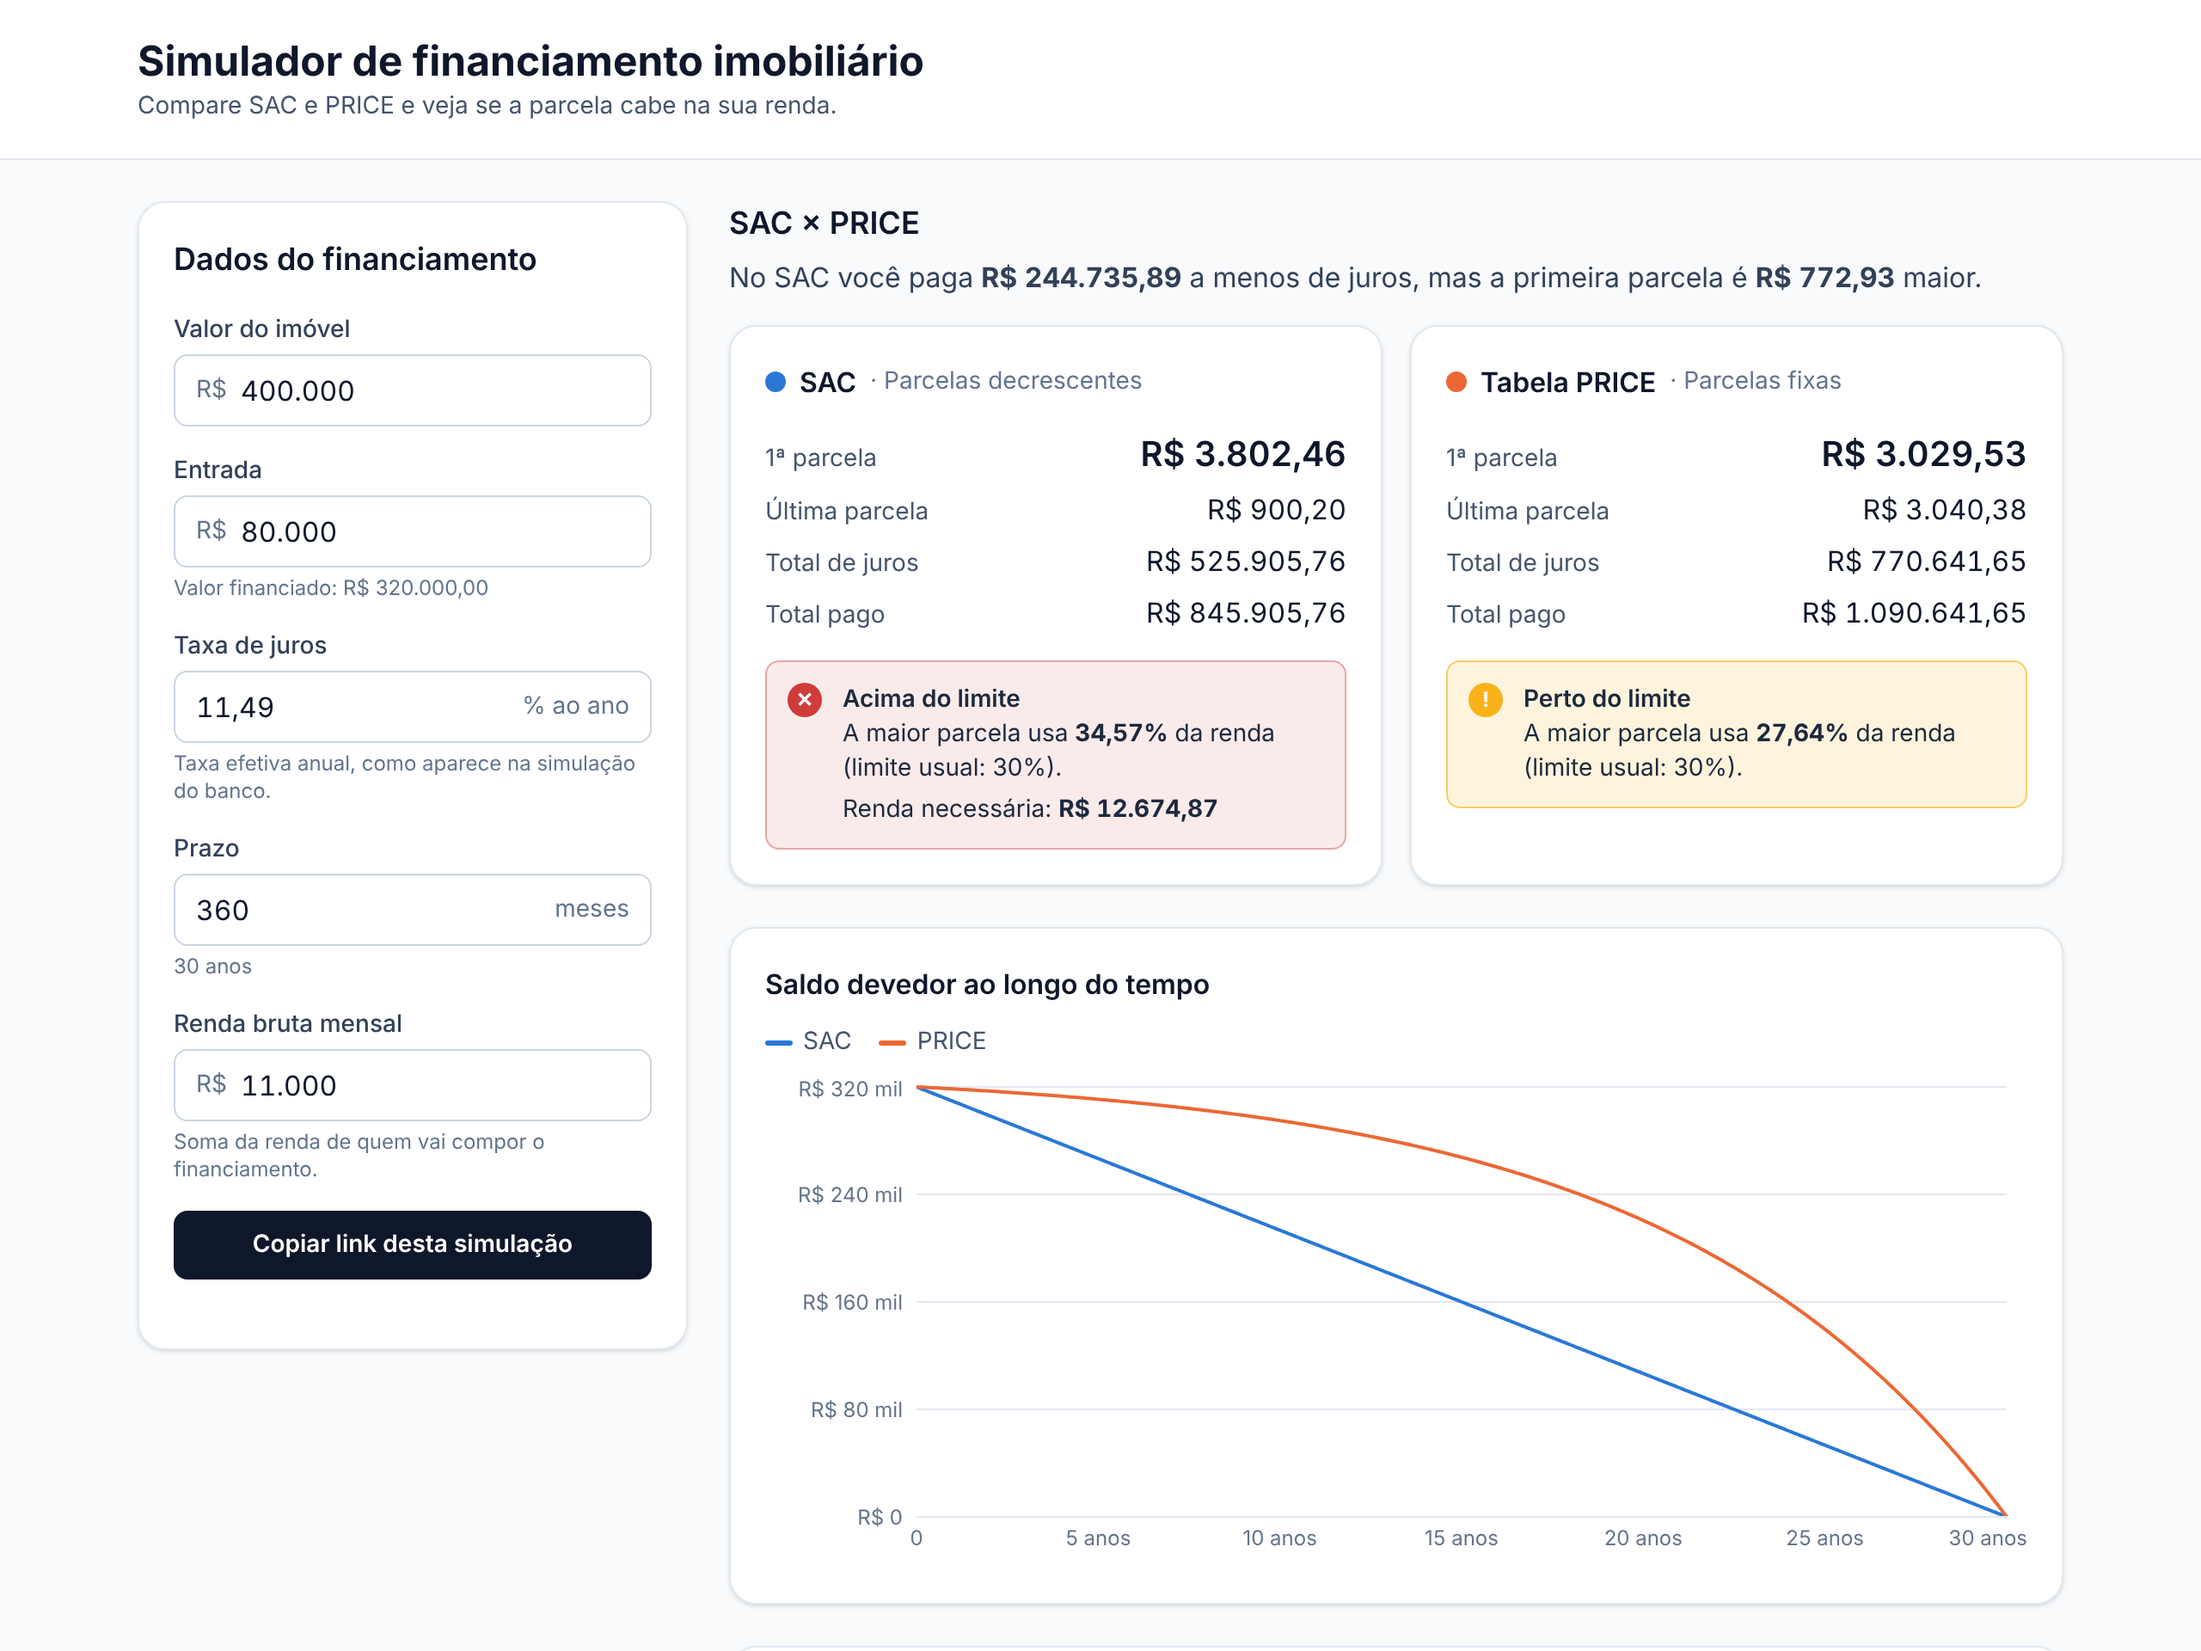
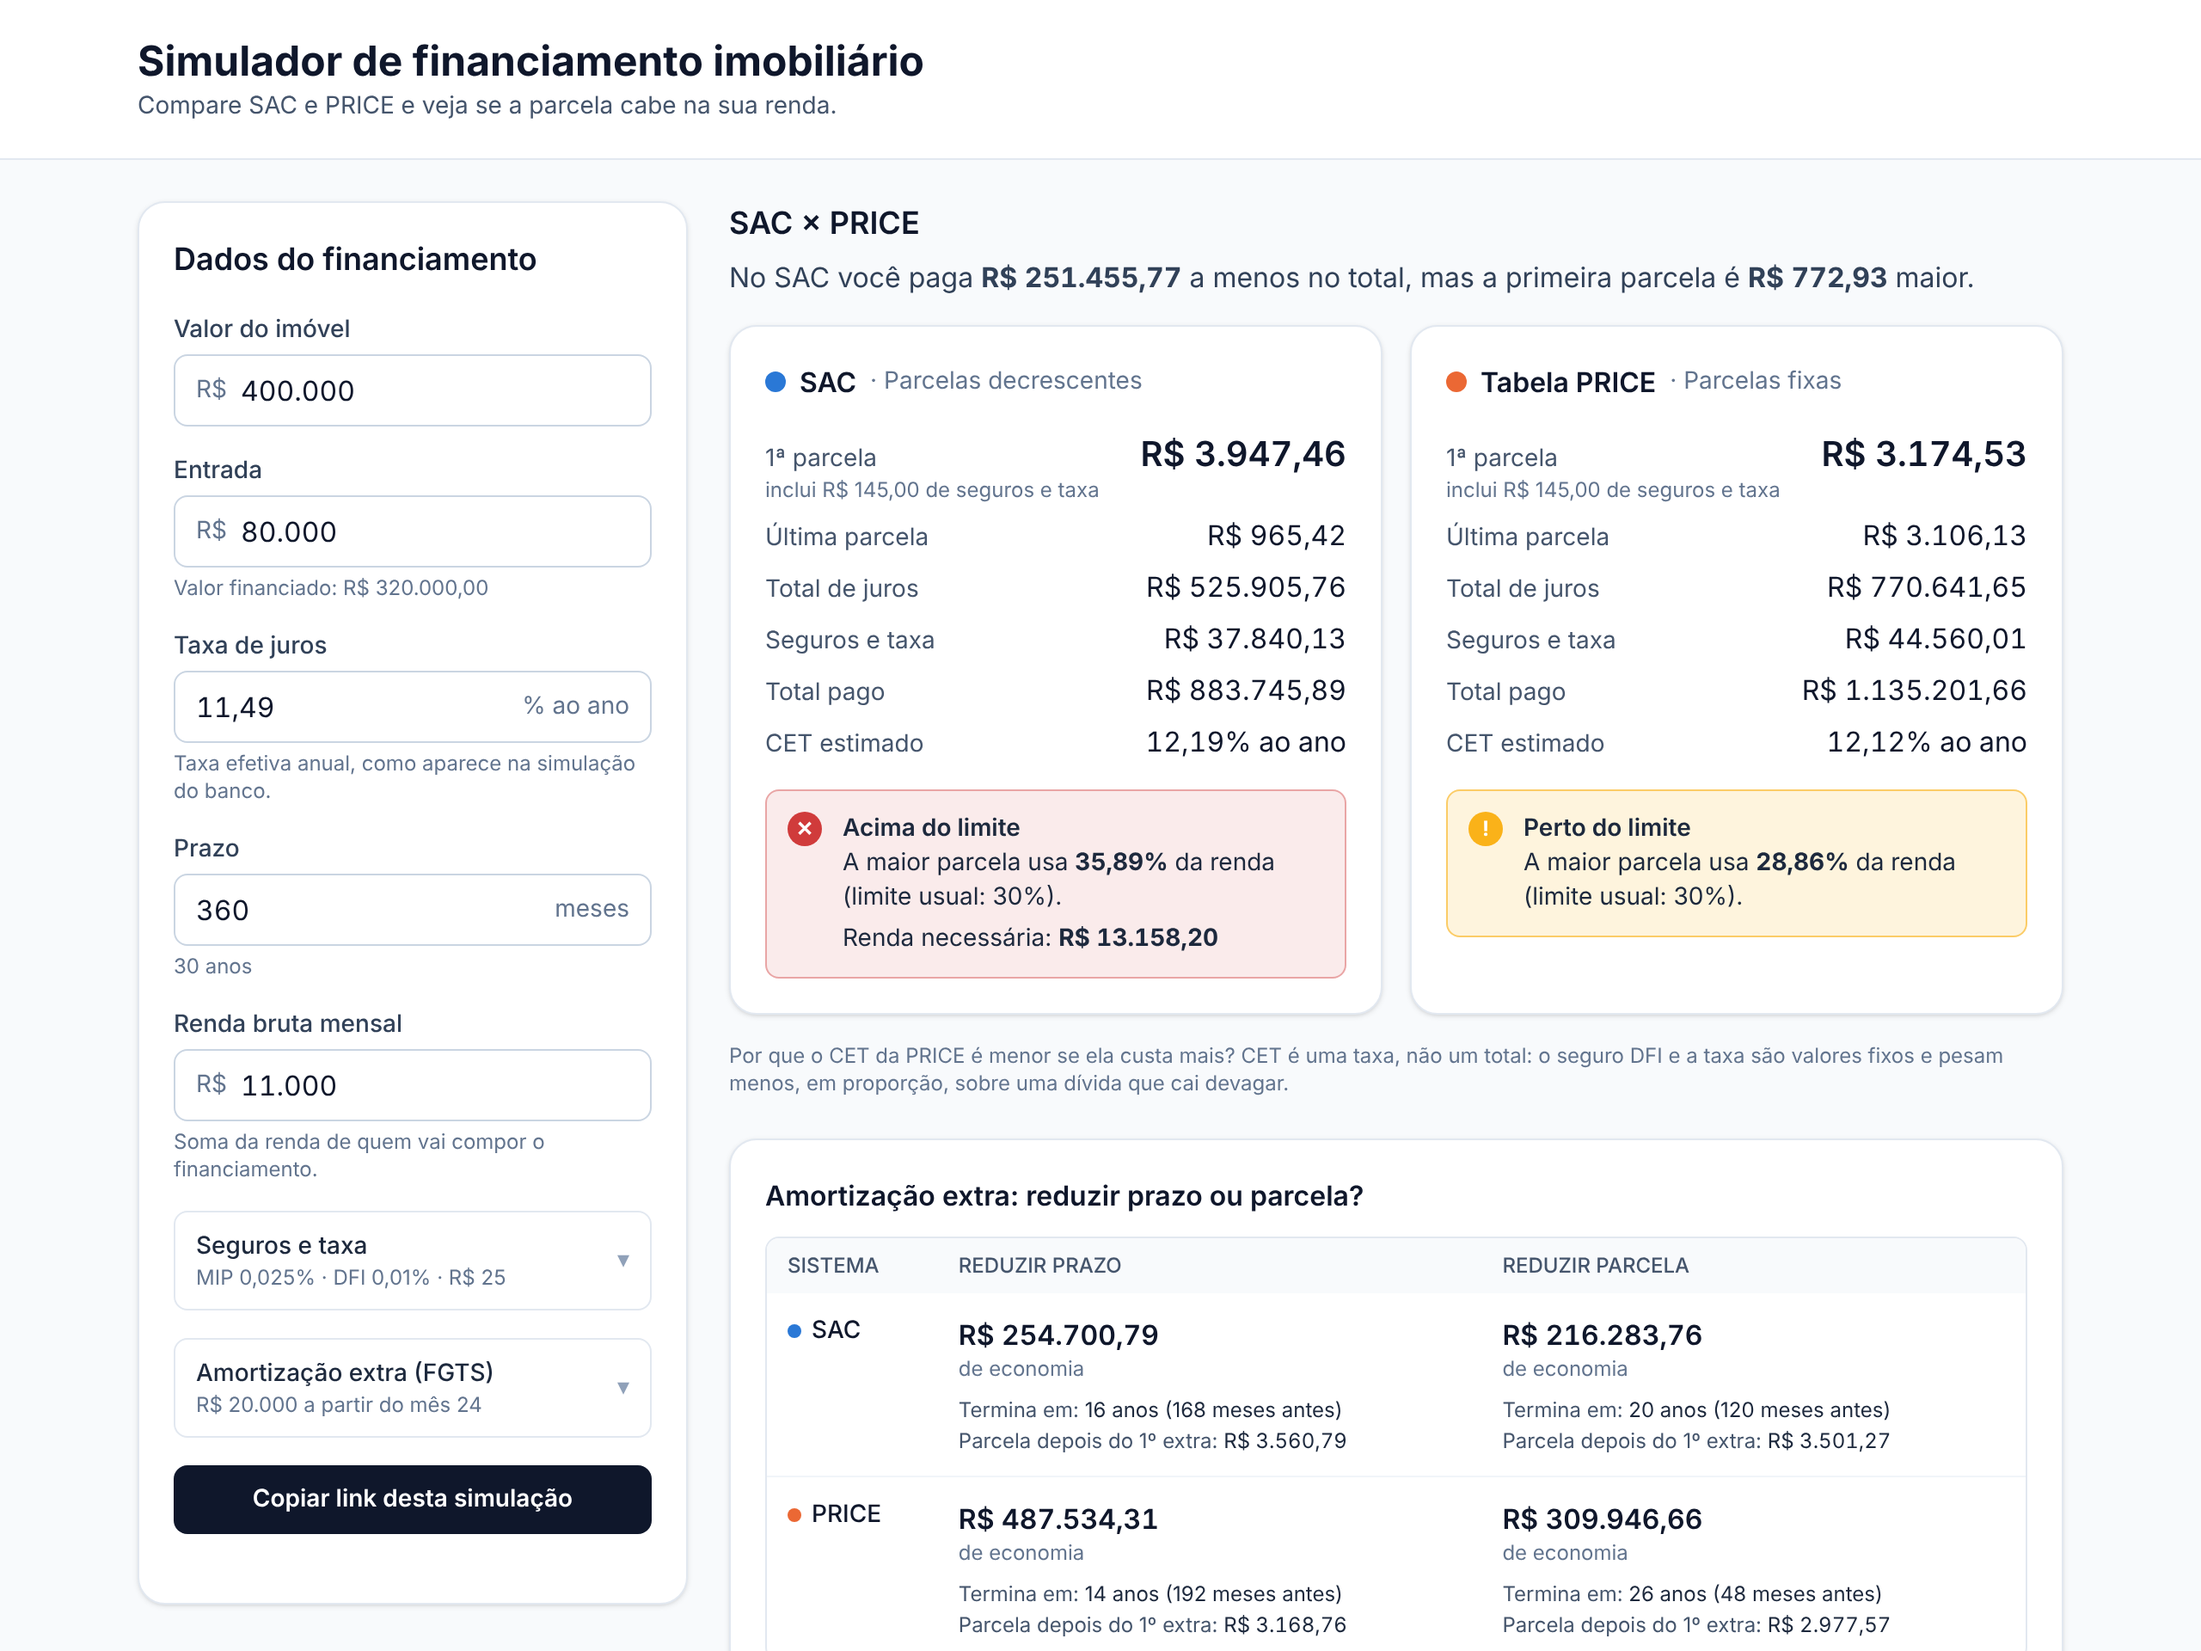
docs: README e decisões da versão 2 (seguros, CET, FGTS e E2E)
Claude-Session: https://claude.ai/code/session_01U7Cfvx8JJkY3kDSMCDJYpk

diff --git a/docs/DECISOES.md b/docs/DECISOES.md
@@ -333,3 +333,116 @@ um substituto vazio.
   prévia com os números do link exigiria gerar a imagem no servidor (ex.:
   função serverless com `@vercel/og`), já que os robôs não executam
   JavaScript. Fica como ideia de evolução.
+
+---
+
+# Versão 2: seguros, CET, amortização extra e E2E
+
+## 19. Um motor só para SAC e PRICE (refatoração com rede de segurança)
+
+Para suportar pagamentos extras, SAC e PRICE precisariam da mesma lógica
+nova duas vezes. Em vez disso, criei `gerarTabela(sistema, params, opções)`
+em `motor.ts`: os dois sistemas diferem só na regra da amortização regular
+(fixa no SAC; prestação menos juros na PRICE). Juros, arredondamento,
+última parcela e extras ficam num lugar só.
+
+A refatoração foi feita **com os testes antigos como rede de segurança**:
+`calcularSAC` e `calcularPRICE` viraram três linhas que chamam o motor, e os
+144 testes existentes passaram sem nenhuma alteração. Um teste novo afirma
+que, sem extras, o motor é idêntico às versões anteriores.
+
+## 20. Encargos separados da amortização
+
+Seguros e taxa **não mudam a dívida**, só o valor pago. Por isso
+`aplicarEncargos()` recebe uma tabela já pronta e acrescenta MIP, DFI, taxa
+e total em cada linha. A mesma função serve para SAC, PRICE e os cenários
+com extra, sem repetir código.
+
+- **MIP** incide sobre o saldo devedor do mês (antes do pagamento): cai com a dívida.
+- **DFI** incide sobre o valor do imóvel: fica constante.
+- **Taxa de administração**: valor fixo em reais.
+
+Os valores padrão (MIP 0,025% a.m., DFI 0,01% a.m., R$ 25) são **exemplos**.
+O MIP depende da idade e cada banco tem sua tabela, então o formulário avisa
+para usar os números do contrato. O comprometimento de renda passou a usar a
+parcela **total**, que é o que o banco considera.
+
+## 21. CET por taxa interna de retorno
+
+CET é a taxa que iguala o valor liberado ao valor presente de tudo que se
+paga. Não tem fórmula fechada, então é resolvido numericamente.
+
+- **Bissecção, não Newton-Raphson.** Newton converge mais rápido, mas pode
+  divergir com um chute ruim. Aqui a função é monótona (mais taxa, menor
+  valor presente), então a bissecção sempre converge; 100 iterações levam
+  menos de 1 ms.
+- **Conferido com outro método:** a implementação independente em Python
+  usou o método da secante e chegou aos mesmos valores (12,19% SAC, 12,12% PRICE).
+- **Teste de sanidade:** sem seguros e taxa, o CET tem de dar a própria taxa
+  de juros (11,49%), e dá, a menos do arredondamento.
+- **Simplificação assumida:** o CET oficial (Resolução CMN 3.517) inclui
+  custos de contratação (avaliação, registro, tarifas), que o simulador não pede.
+
+**Descoberta que virou explicação na tela:** com os valores padrão, o CET da
+PRICE (12,12%) sai *menor* que o do SAC (12,19%), mesmo a PRICE custando
+R$ 251 mil a mais. Não é bug: DFI e taxa são valores fixos, e na PRICE a
+dívida fica alta por mais tempo, então esses custos pesam menos *em
+proporção*. CET é taxa, não total. A interface mostra essa explicação
+quando o caso acontece, para ninguém escolher a PRICE achando que é mais barata.
+
+## 22. Amortização extra: prazo × parcela
+
+O usuário informa valor, mês e repetição (uma vez, todo ano ou a cada 2 anos,
+que é o intervalo mínimo do FGTS). O simulador calcula os **dois modos nos
+dois sistemas** e mostra uma tabela 2×2 com economia, prazo final e parcela
+depois do extra.
+
+- **Reduzir prazo:** mantém a regra da parcela; a dívida acaba antes.
+- **Reduzir parcela:** depois de cada extra, recalcula a parcela para o
+  prazo restante (SAC: saldo ÷ meses restantes; PRICE: nova anuidade).
+- O extra nunca passa do saldo; um extra gigante simplesmente quita o contrato.
+
+**Teste que estava errado, não o código:** eu afirmei que no modo "reduzir
+parcela" o prazo nunca muda. O teste falhou: com R$ 20 mil a cada 2 anos, os
+próprios extras quitam a dívida antes (em 240 meses no SAC). Corrigi a
+afirmação do teste, que agora diz o que de fato vale, e adicionei outro
+mostrando que, com **um** extra só, o prazo se mantém.
+
+No celular, a tabela 2×2 vira um cartão por sistema, para não precisar de
+rolagem lateral.
+
+## 23. Formulário com campos opcionais
+
+`EntradaSimulacao` continua **plana** (sem objetos aninhados): cada campo do
+formulário é uma chave, e os erros usam as mesmas chaves. A conversão texto
+→ número virou uma **tabela de configuração** (unidade, obrigatório, valor
+padrão por campo) em vez de um `if` por campo: campo novo = uma linha.
+
+Seguros e extra ficam em seções recolhíveis com `<details>` nativo
+(acessível sem JavaScript). Campos opcionais vazios valem zero. No link, os
+campos de extra só entram quando há valor extra, para o link padrão
+continuar curto.
+
+## 24. Testes de ponta a ponta (Playwright)
+
+Vitest garante os números; Playwright garante que **o site funciona num
+navegador de verdade**: build de produção, carregamento sob demanda dos
+gráficos, URL, área de transferência, tags de prévia.
+
+- **8 cenários × 2 dispositivos** (desktop e celular Pixel 7, ambos Chromium,
+  para o CI instalar um navegador só).
+- **Dois jeitos de rodar:** sem `BASE_URL`, o Playwright sobe o build local
+  (`vite preview`), que é o que o CI faz a cada push; com `BASE_URL`, testa
+  um site já publicado.
+- **Após cada deploy de produção:** o workflow `e2e-producao.yml` escuta o
+  evento `deployment_status` que a Vercel publica no GitHub e roda os testes
+  no domínio de produção. Usa o domínio público, não a URL única do deploy,
+  que fica protegida por login na Vercel.
+
+**O primeiro E2E já pegou um bug real.** A seção "Amortização extra" abria
+quando havia erro (`open={temErro}`), e quando a pessoa corrigia o erro o
+React tirava o atributo `open`, fechando a seção no meio do preenchimento. O
+teste no jsdom não pegou porque lá nada fica invisível: o Playwright tentou
+escolher uma opção num `<select>` que tinha sumido da tela. A correção (abrir
+via `ref` quando surge erro, nunca fechar sozinho) veio com um teste de
+regressão no Vitest e está num commit próprio (`fix:`).

diff --git a/README.md b/README.md
@@ -22,10 +22,13 @@ Internet: a ideia é responder com números a pergunta que todo cliente faz —
 - [x] Gráficos de saldo devedor e composição da parcela (Recharts)
 - [x] Link compartilhável: os valores ficam na URL
 - [x] Deploy na Vercel, com prévia do link no WhatsApp/LinkedIn (Open Graph)
+- [x] Seguros MIP e DFI, taxa de administração e CET estimado
+- [x] Amortização extra (FGTS): reduzir prazo × reduzir parcela, única ou recorrente
+- [x] Testes de ponta a ponta com Playwright, no CI e após cada deploy
 
 ## Stack
 
-React · TypeScript · Vite · Tailwind CSS · Recharts · Vitest
+React · TypeScript · Vite · Tailwind CSS · Recharts · Vitest · Playwright
 
 ## Como rodar
 
@@ -35,7 +38,11 @@ npm run dev        # servidor de desenvolvimento
 npm test           # testes em modo watch
 npm run coverage   # testes + relatório de cobertura (mínimo 100% em src/lib)
 npm run build      # typecheck + build de produção
+npm run e2e        # testes de ponta a ponta (sobe o build local)
+npm run e2e:producao  # os mesmos testes contra o site publicado
 ```
+
+Na primeira vez, instale o navegador do Playwright: `npx playwright install chromium`.
 
 ## Estrutura
 
@@ -45,7 +52,10 @@ src/
 │   ├── financiamento/       # regras de negócio
 │   │   ├── dinheiro.ts      # reais ↔ centavos, formatação BRL
 │   │   ├── taxas.ts         # conversão de taxas
-│   │   ├── sac.ts, price.ts # tabelas de amortização
+│   │   ├── motor.ts         # motor único de amortização (+ pagamentos extras)
+│   │   ├── sac.ts, price.ts # os dois sistemas, como casos do motor
+│   │   ├── encargos.ts      # seguros MIP/DFI e taxa de administração
+│   │   ├── cet.ts           # taxa interna de retorno e CET
 │   │   ├── renda.ts         # comprometimento de renda
 │   │   └── simulacao.ts     # simular(): orquestra tudo para a UI
 │   ├── formulario/          # texto digitado → números; estado ↔ URL
@@ -53,6 +63,7 @@ src/
 ├── hooks/useSimulacao.ts    # estado do formulário sincronizado com a URL
 ├── components/              # UI (formulário, cartões, tabela, gráficos)
 └── App.test.tsx             # testes de integração da interface (jsdom)
+e2e/                         # testes de ponta a ponta (Playwright)
 ```
 
 Os testes ficam ao lado de cada módulo (`*.test.ts`).
@@ -82,5 +93,6 @@ explicadas em [`docs/DECISOES.md`](docs/DECISOES.md).
 
 ## Aviso
 
-Simulação educativa. Não inclui seguros (MIP/DFI), taxa de administração nem
-correção pela TR; os valores reais dependem das condições de cada banco.
+Simulação educativa. Seguros e taxa usam os valores informados (os padrões são
+exemplos); o cálculo não inclui correção pela TR nem custos de contratação. Os
+valores reais dependem das condições de cada banco.
